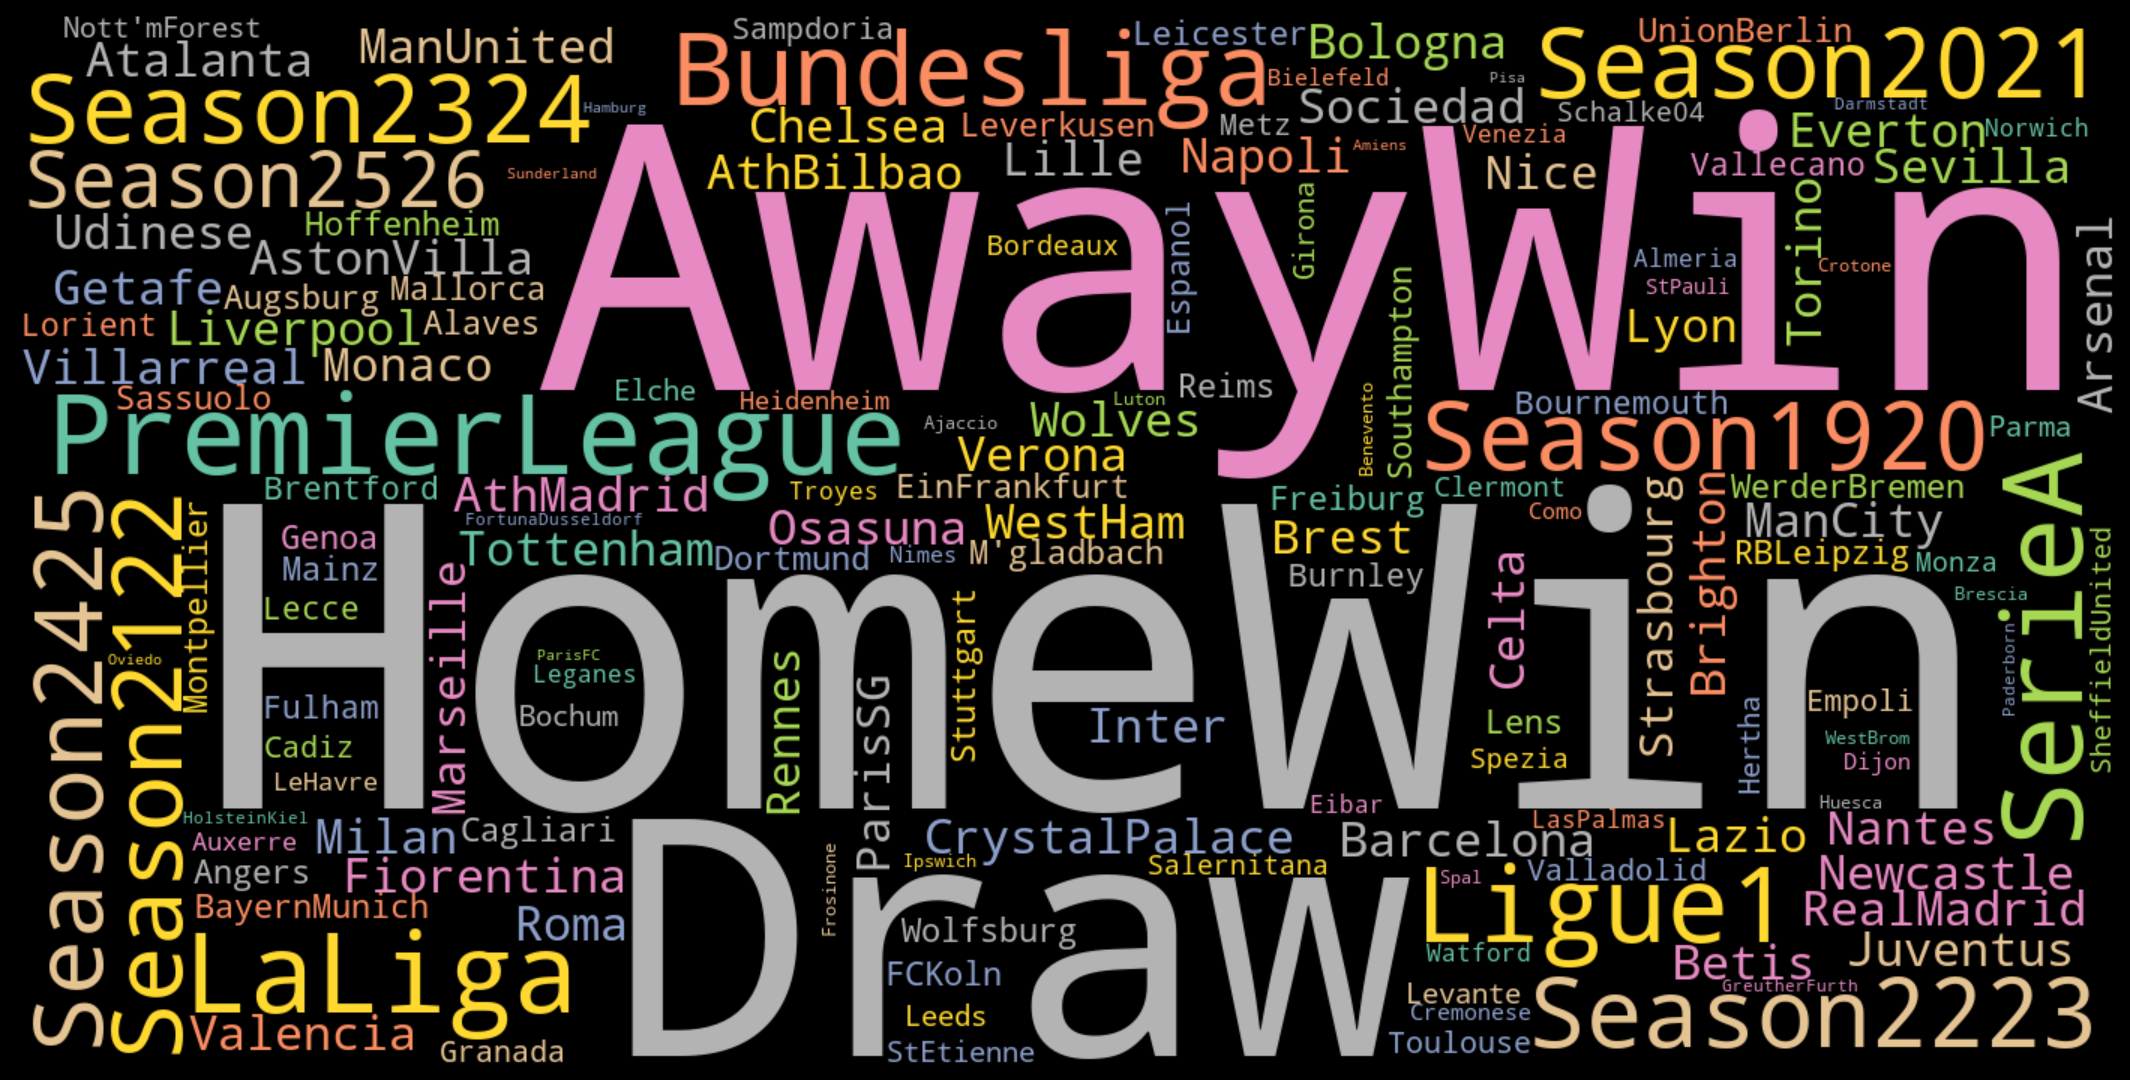
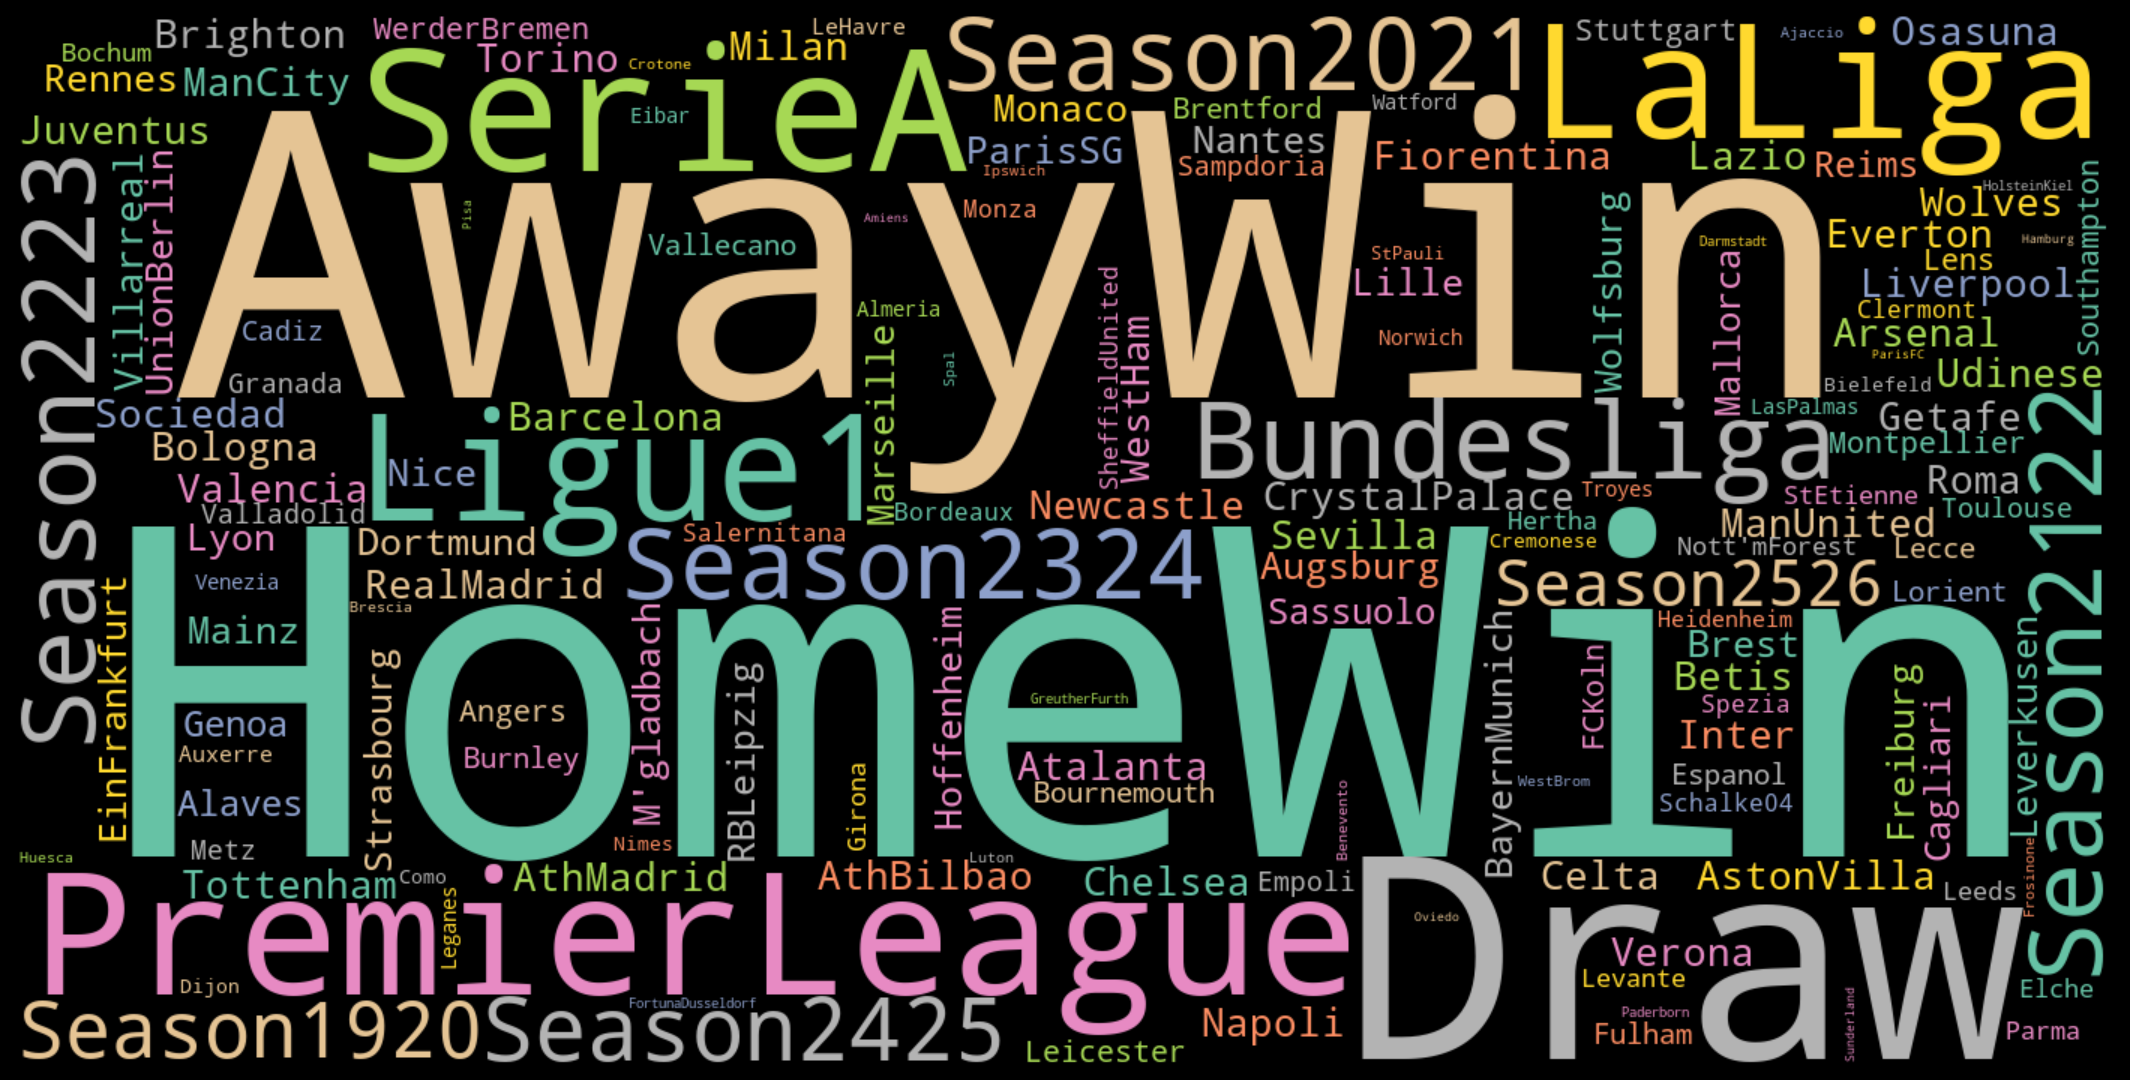
se agregó division por termporadas

diff --git a/Practica 9/text_analysis.py b/Practica 9/text_analysis.py
@@ -155,3 +155,143 @@ plt.tight_layout()
 plt.savefig(os.path.join(IMG_DIR, "wordcloud_top20_barras.png"), dpi=130)
 plt.close()
 print("  guardado: img/wordcloud_top20_barras.png")
+
+
+# generé una wordcloud por liga en un loop para comparar el vocabulario de equipos
+# que tiene cada competición — usé el colormap distintivo de cada liga
+
+print("\nnubes de palabras por liga")
+
+LIGA_COLORMAPS = {
+    "E0":  "Blues",
+    "SP1": "Reds",
+    "D1":  "Oranges",
+    "I1":  "Greens",
+    "F1":  "Purples",
+}
+
+fig, axes = plt.subplots(2, 3, figsize=(18, 10))
+axes_flat = axes.flatten()
+
+for i, (liga, nombre) in enumerate(LIGAS_NAME.items()):
+    sub = df[df["Div"] == liga]
+
+    tokens_liga = []
+    for _, row in sub.iterrows():
+        tokens_liga += [
+            row["HomeTeam"].replace(" ", ""),
+            row["AwayTeam"].replace(" ", ""),
+            row["FTR_text"],
+        ]
+
+    wc = WordCloud(
+        background_color="white",
+        width=800,
+        height=500,
+        min_font_size=6,
+        max_words=80,
+        colormap=LIGA_COLORMAPS[liga],
+        collocations=False,
+    ).generate(" ".join(tokens_liga))
+
+    axes_flat[i].imshow(wc, interpolation="bilinear")
+    axes_flat[i].axis("off")
+    axes_flat[i].set_title(nombre, fontweight="bold", fontsize=13,
+                            color=LIGA_COLORS[liga])
+
+    cnt_liga  = Counter(tokens_liga)
+    top3_liga = [t for t, _ in cnt_liga.most_common(10)
+                 if t not in ("HomeWin", "AwayWin", "Draw")][:3]
+    axes_flat[i].set_xlabel(f"top equipos: {' · '.join(top3_liga)}",
+                             fontsize=9, color="gray")
+    print(f"  {nombre}: top3 = {top3_liga}")
+
+axes_flat[-1].axis("off")
+plt.suptitle("Wordcloud por liga — equipos y resultados más frecuentes",
+             fontweight="bold", fontsize=15)
+plt.tight_layout()
+plt.savefig(os.path.join(IMG_DIR, "wordcloud_por_liga.png"), dpi=130,
+            bbox_inches="tight")
+plt.close()
+print("  guardado: img/wordcloud_por_liga.png")
+
+
+# construí un corpus por temporada para ver cómo cambia el vocabulario con el tiempo
+# en temporadas COVID hay equipos que desaparecen o aparecen por primera vez
+
+print("\nnubes de palabras por temporada")
+
+SEASON_LABELS = {
+    1920: "2019/20", 2021: "2020/21", 2122: "2021/22",
+    2223: "2022/23", 2324: "2023/24", 2425: "2024/25", 2526: "2025/26",
+}
+
+seasons_sorted = sorted(df["Season"].dropna().unique().astype(int))
+fig, axes      = plt.subplots(2, 4, figsize=(20, 9))
+axes_flat      = axes.flatten()
+
+for i, season in enumerate(seasons_sorted):
+    sub   = df[df["Season"] == season]
+    label = SEASON_LABELS.get(season, str(season))
+
+    tokens_season = []
+    for _, row in sub.iterrows():
+        tokens_season += [
+            row["HomeTeam"].replace(" ", ""),
+            row["AwayTeam"].replace(" ", ""),
+            row["FTR_text"],
+            row["Liga_text"],
+        ]
+
+    wc = WordCloud(
+        background_color="black",
+        width=700,
+        height=400,
+        min_font_size=6,
+        max_words=60,
+        colormap="coolwarm",
+        collocations=False,
+    ).generate(" ".join(tokens_season))
+
+    axes_flat[i].imshow(wc, interpolation="bilinear")
+    axes_flat[i].axis("off")
+    axes_flat[i].set_title(label, fontweight="bold", fontsize=11, color="white")
+    axes_flat[i].set_facecolor("black")
+    print(f"  temporada {label}: {len(sub)} partidos")
+
+for j in range(len(seasons_sorted), len(axes_flat)):
+    axes_flat[j].axis("off")
+
+fig.patch.set_facecolor("black")
+plt.suptitle("Wordcloud por temporada — evolución del vocabulario 2019-2026",
+             fontweight="bold", fontsize=14, color="white")
+plt.tight_layout()
+plt.savefig(os.path.join(IMG_DIR, "wordcloud_por_temporada.png"), dpi=130,
+            bbox_inches="tight", facecolor="black")
+plt.close()
+print("  guardado: img/wordcloud_por_temporada.png")
+
+
+# calculé la diversidad de vocabulario por liga  de que quipos únicos y distribución
+# de resultados para complementar lo visual con números concretos
+
+print("\ndiversidad de vocabulario por liga")
+
+resumen_vocab = []
+for liga, nombre in LIGAS_NAME.items():
+    sub            = df[df["Div"] == liga]
+    equipos_unicos = set(sub["HomeTeam"].tolist() + sub["AwayTeam"].tolist())
+    resultados     = sub["FTR_text"].value_counts().to_dict()
+    resumen_vocab.append({
+        "Liga":      nombre,
+        "Equipos":   len(equipos_unicos),
+        "Partidos":  len(sub),
+        "HomeWin":   resultados.get("HomeWin", 0),
+        "Draw":      resultados.get("Draw", 0),
+        "AwayWin":   resultados.get("AwayWin", 0),
+        "%HomeWin":  f"{resultados.get('HomeWin',0)/len(sub)*100:.1f}%",
+        "%Draw":     f"{resultados.get('Draw',0)/len(sub)*100:.1f}%",
+        "%AwayWin":  f"{resultados.get('AwayWin',0)/len(sub)*100:.1f}%",
+    })
+
+print_tabulate(pd.DataFrame(resumen_vocab))
